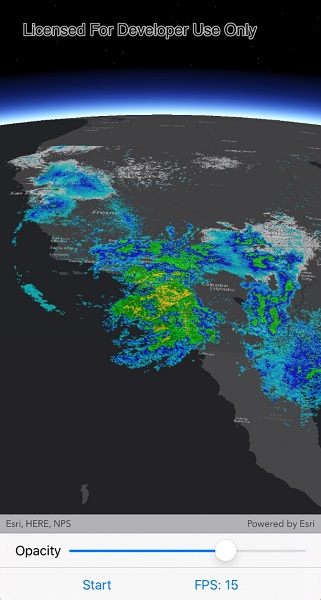
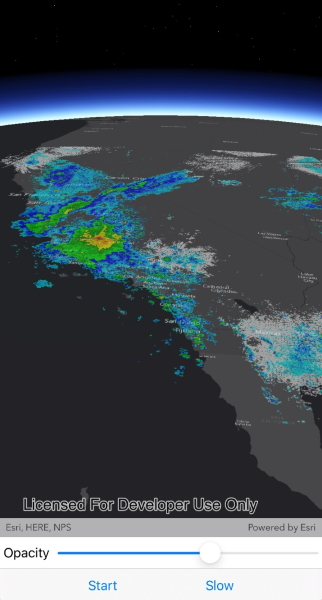
Updated iOS

diff --git a/src/iOS/Xamarin.iOS/Samples/SceneView/AnimateImageOverlay/AnimateImageOverlay.cs b/src/iOS/Xamarin.iOS/Samples/SceneView/AnimateImageOverlay/AnimateImageOverlay.cs
@@ -34,7 +34,7 @@ namespace ArcGISRuntimeXamarin.Samples.AnimateImageOverlay
         // Hold references to UI controls.
         private SceneView _mySceneView;
         private UIBarButtonItem _pauseButton;
-        private UIBarButtonItem _fpsButton;
+        private UIBarButtonItem _speedButton;
         private UISlider _opacitySlider;
         private UIToolbar _buttonToolbar;
 
@@ -89,7 +89,7 @@ namespace ArcGISRuntimeXamarin.Samples.AnimateImageOverlay
             // Create all of the image frames using the filepaths and the envelope.
             _images = imagePaths.Select(path => new ImageFrame(new Uri(path), pacificEnvelope)).Take(120).ToArray();
 
-            // Create new Timer and set the timeout interval to approximately 15 frames a second.
+            // Create new Timer and set the timeout interval to approximately 15 image frames per second.
             _timer = new Timer(AnimateOverlay);
             _timer.Change(0, 1000 / 15);
         }
@@ -106,15 +106,15 @@ namespace ArcGISRuntimeXamarin.Samples.AnimateImageOverlay
             }
         }
 
-        private void FPSButtonClicked(object sender, EventArgs e)
+        private void SpeedButtonClick(object sender, EventArgs e)
         {
             // Start the UI for the user choosing the trace type.
             UIAlertController prompt = UIAlertController.Create(null, "Choose trace type", UIAlertControllerStyle.ActionSheet);
 
             // Add a selection action for every valid trace type.
-            foreach (int fps in new int[] { 15, 30, 60 })
+            foreach (string speed in new string[] { "Slow", "Medium", "Fast"})
             {
-                prompt.AddAction(UIAlertAction.Create(fps.ToString(), UIAlertActionStyle.Default, FPSSelected));
+                prompt.AddAction(UIAlertAction.Create(speed, UIAlertActionStyle.Default, SpeedSelected));
             }
 
             // Needed to prevent crash on iPad.
@@ -128,12 +128,29 @@ namespace ArcGISRuntimeXamarin.Samples.AnimateImageOverlay
             PresentViewController(prompt, true, null);
         }
 
-        private void FPSSelected(UIAlertAction obj)
+        private void SpeedSelected(UIAlertAction action)
         {
-            // Calculate the new time interval using the selected frames per second.
-            int newInterval = 1000 / int.Parse(obj.Title);
+            int newInterval = 0;
+            switch (action.Title)
+            {
+                case "Slow":
+                    newInterval = 1000 / 15;
+                    break;
+
+                case "Medium":
+                    newInterval = 1000 / 30;
+                    break;
+
+                case "Fast":
+                    newInterval = 1000 / 60;
+                    break;
+            }
+
+            // Calculate the new time interval using the selected speed.
             _timer?.Change(0, newInterval);
-            _fpsButton.Title = $"FPS: {obj.Title}";
+
+            // Update the button text.
+            _speedButton.Title = action.Title;
         }
 
         private void ChangeOpacity(object sender, EventArgs e)
@@ -182,14 +199,14 @@ namespace ArcGISRuntimeXamarin.Samples.AnimateImageOverlay
 
             // Create the buttons.
             _pauseButton = new UIBarButtonItem { Title = "Stop" };
-            _fpsButton = new UIBarButtonItem { Title = "FPS: 15" };
+            _speedButton = new UIBarButtonItem { Title = "Slow" };
 
             // Add the buttons to a toolbar.
             _buttonToolbar.Items = new UIBarButtonItem[] {
                 new UIBarButtonItem(UIBarButtonSystemItem.FlexibleSpace),
                 _pauseButton,
                 new UIBarButtonItem(UIBarButtonSystemItem.FlexibleSpace),
-                _fpsButton,
+                _speedButton,
                 new UIBarButtonItem(UIBarButtonSystemItem.FlexibleSpace),
             };
 
@@ -222,7 +239,7 @@ namespace ArcGISRuntimeXamarin.Samples.AnimateImageOverlay
             // Subscribe to events.
             _pauseButton.Clicked += StopStartAnimation;
             _opacitySlider.TouchUpInside += ChangeOpacity;
-            _fpsButton.Clicked += FPSButtonClicked;
+            _speedButton.Clicked += SpeedButtonClick;
         }
 
         public override void ViewDidDisappear(bool animated)
@@ -232,7 +249,7 @@ namespace ArcGISRuntimeXamarin.Samples.AnimateImageOverlay
             // Unsubscribe from events, per best practice.
             _pauseButton.Clicked -= StopStartAnimation;
             _opacitySlider.TouchUpInside -= ChangeOpacity;
-            _fpsButton.Clicked -= FPSButtonClicked;
+            _speedButton.Clicked -= SpeedButtonClick;
 
             // Stop the animation when the sample is unloaded.
             _animationStopped = true;
